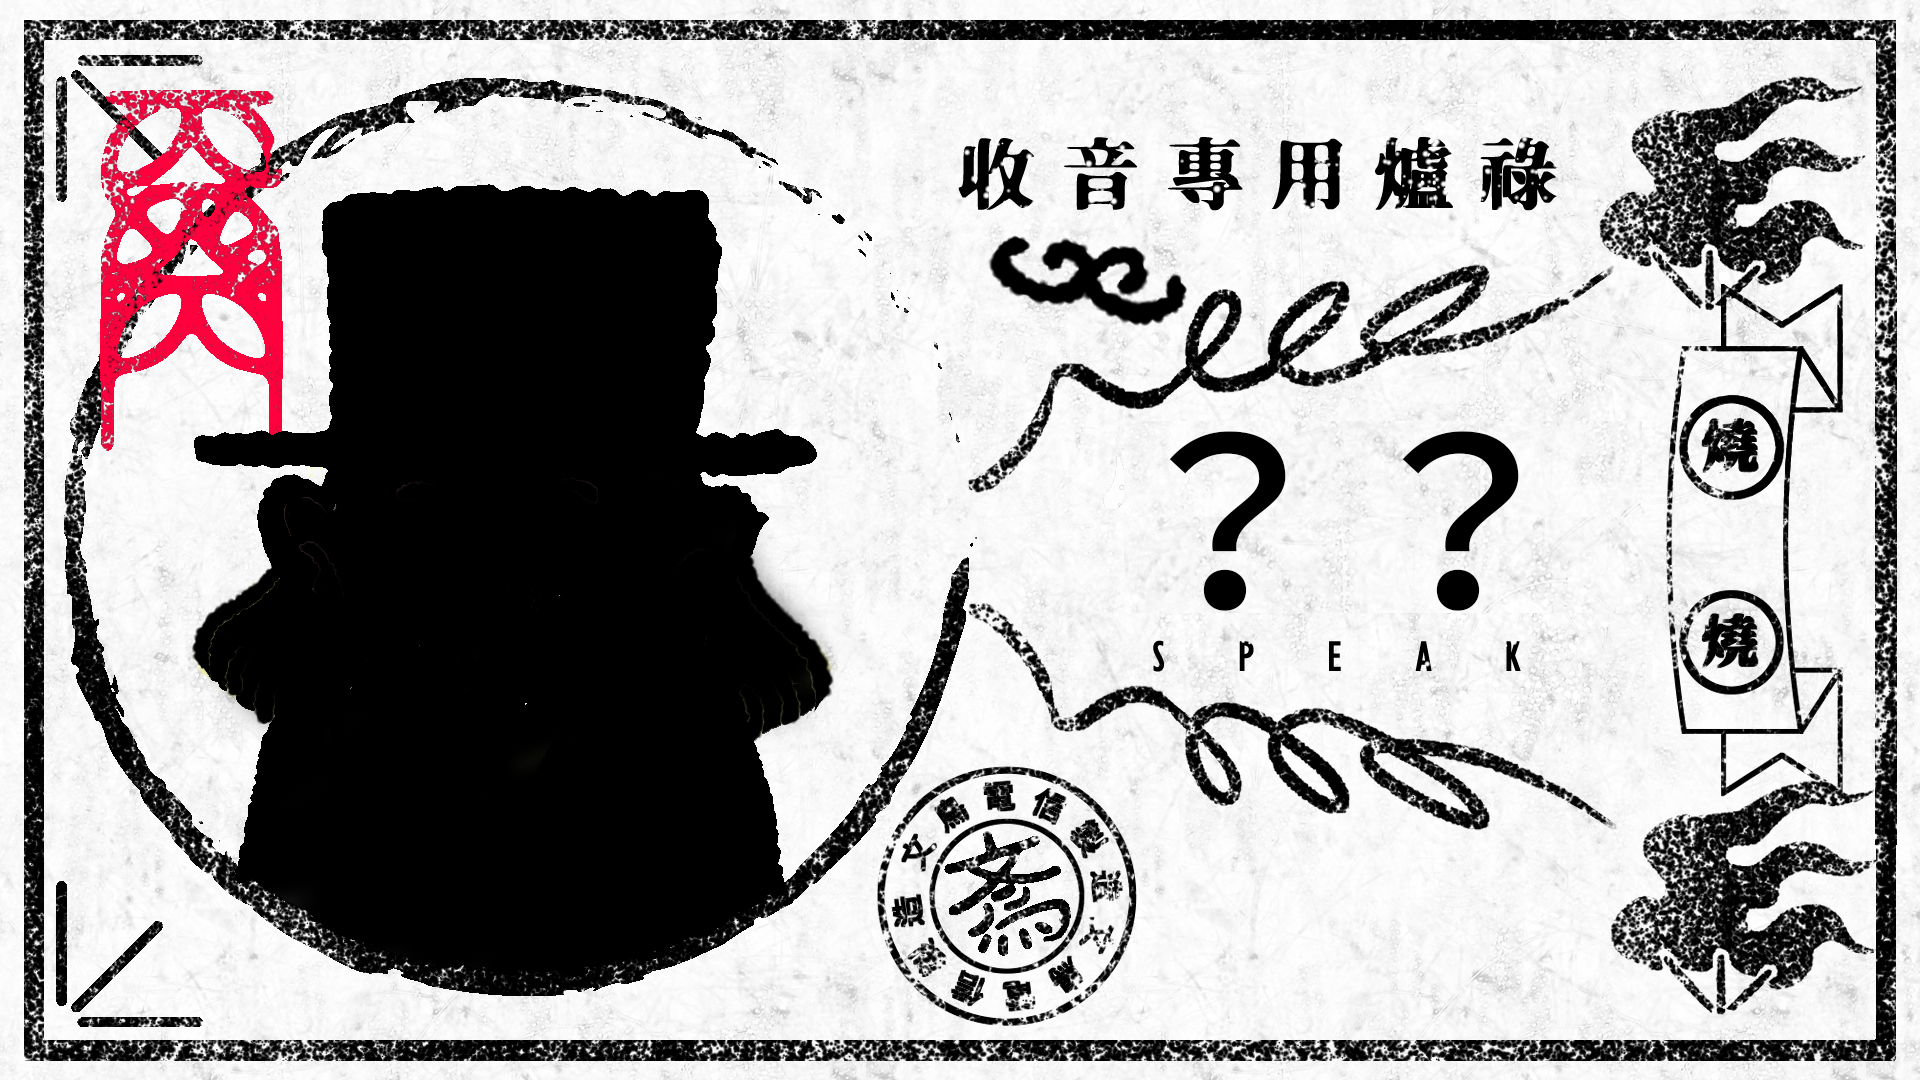
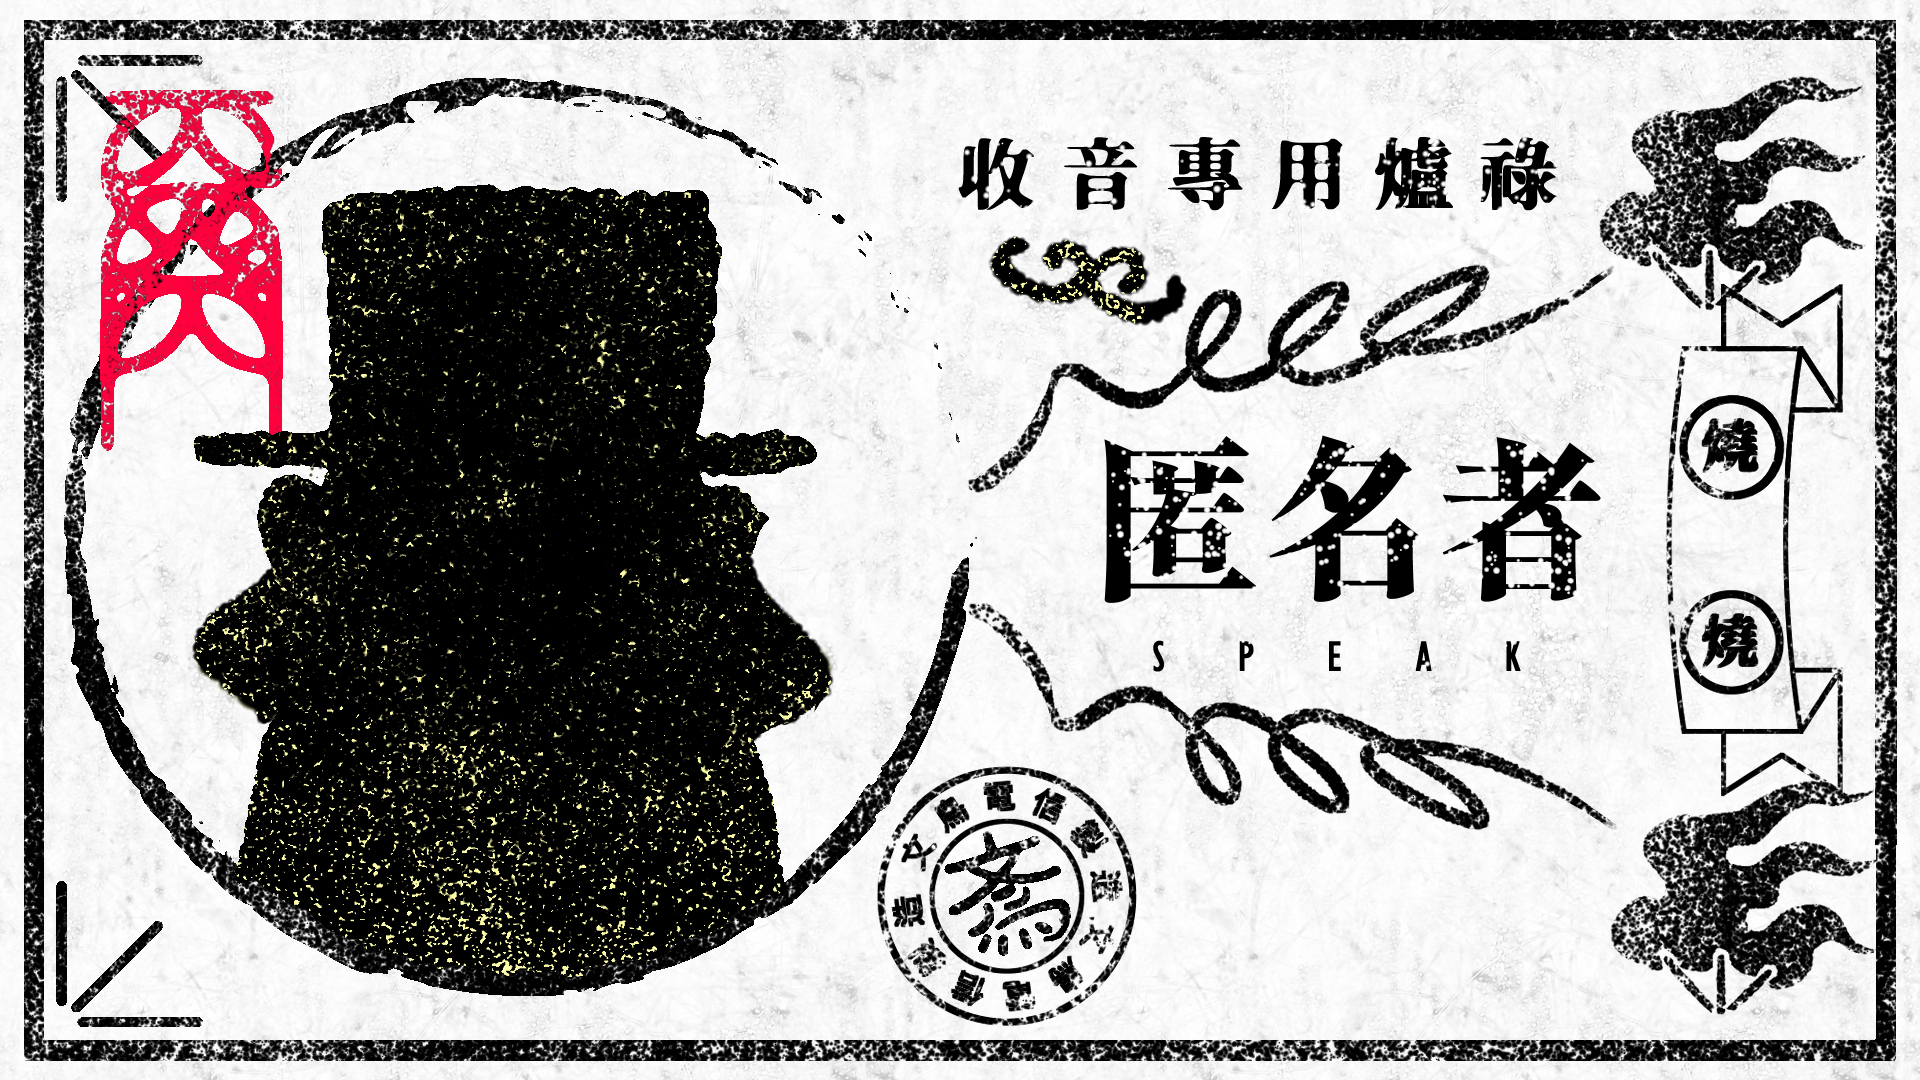
改版v7

diff --git a/tainanfist/testdemov4.html b/tainanfist/testdemov4.html
@@ -298,7 +298,7 @@ body.bg4 {
   background-repeat: no-repeat;
 }
 body.bg5 {
-  background-image: url("https://lh3.googleusercontent.com/d/14fzcSHPJpA57fDKVgKTx-DxHXiJ3O_ri");
+  background-image: url("https://lh3.googleusercontent.com/d/1Oa1DKwPHUNVPFZ6qIbismByYcShU3qht");
   display: flex;
   min-height: 100vh;
   background-size: auto 100%;
@@ -306,6 +306,14 @@ body.bg5 {
   background-repeat: no-repeat;
 }
 body.bg6 {
+  background-image: url("https://lh3.googleusercontent.com/d/14fzcSHPJpA57fDKVgKTx-DxHXiJ3O_ri");
+  display: flex;
+  min-height: 100vh;
+  background-size: auto 100%;
+  background-color: #fdfcfa;
+  background-repeat: no-repeat;
+}
+body.bg7 {
   background-image: url("https://lh3.googleusercontent.com/d/1g0_CSXdOcae3e0bDVZCtaO6Gvfu-vB4X");
   display: flex;
   min-height: 100vh;
@@ -4365,14 +4373,10 @@ Normal text. Normal text. Normal text. Normal text. Normal text. //emphasised te
   └&lt;&lt;link &#39;【第四章關卡1】&#39;&gt;&gt;&lt;&lt;goto &#39;第四章關卡1&#39;&gt;&gt;&lt;&lt;script&gt;&gt;Dialog.close();&lt;&lt;/script&gt;&gt;&lt;&lt;/link&gt;&gt;
   └&lt;&lt;link &#39;【第四章關卡2】&#39;&gt;&gt;&lt;&lt;goto &#39;第四章關卡2&#39;&gt;&gt;&lt;&lt;script&gt;&gt;Dialog.close();&lt;&lt;/script&gt;&gt;&lt;&lt;/link&gt;&gt;
 
-  &lt;&lt;link &#39;【片刻休息-枝仔冰城】&#39;&gt;&gt;&lt;&lt;goto &#39;片刻休息2&#39;&gt;&gt;&lt;&lt;/link&gt;&gt;
-  
   &lt;&lt;link &#39;【第五章】&#39;&gt;&gt;&lt;&lt;goto &#39;第五章0&#39;&gt;&gt;&lt;&lt;script&gt;&gt;Dialog.close();&lt;&lt;/script&gt;&gt;&lt;&lt;/link&gt;&gt;
   └&lt;&lt;link &#39;【第五章關卡1】&#39;&gt;&gt;&lt;&lt;goto &#39;第五章關卡1&#39;&gt;&gt;&lt;&lt;script&gt;&gt;Dialog.close();&lt;&lt;/script&gt;&gt;&lt;&lt;/link&gt;&gt;
   └&lt;&lt;link &#39;【第五章關卡2】&#39;&gt;&gt;&lt;&lt;goto &#39;第五章關卡2&#39;&gt;&gt;&lt;&lt;script&gt;&gt;Dialog.close();&lt;&lt;/script&gt;&gt;&lt;&lt;/link&gt;&gt;
 
-&lt;&lt;link &#39;【片刻休息-鴨母寮古厝】&#39;&gt;&gt;&lt;&lt;goto &#39;片刻休息3&#39;&gt;&gt;&lt;&lt;/link&gt;&gt;
-  
   &lt;&lt;link &#39;【後日談】&#39;&gt;&gt;&lt;&lt;goto &#39;第六章0&#39;&gt;&gt;&lt;&lt;script&gt;&gt;Dialog.close();&lt;&lt;/script&gt;&gt;&lt;&lt;/link&gt;&gt;
   └&lt;&lt;link &#39;【後日談關卡1】&#39;&gt;&gt;&lt;&lt;goto &#39;第六章關卡1&#39;&gt;&gt;&lt;&lt;script&gt;&gt;Dialog.close();&lt;&lt;/script&gt;&gt;&lt;&lt;/link&gt;&gt;
   └&lt;&lt;link &#39;【後日談關卡2】&#39;&gt;&gt;&lt;&lt;goto &#39;第六章關卡2&#39;&gt;&gt;&lt;&lt;script&gt;&gt;Dialog.close();&lt;&lt;/script&gt;&gt;&lt;&lt;/link&gt;&gt;
@@ -4565,7 +4569,7 @@ _contents
 &lt;&lt;/if&gt;&gt;</tw-passagedata><tw-passagedata pid="25" name="PassageHeader" tags="noreturn" position="100,525" size="100,100"></tw-passagedata><tw-passagedata pid="26" name="PassageDone" tags="noreturn" position="200,525" size="100,100"></tw-passagedata><tw-passagedata pid="27" name="PassageReady" tags="noreturn" position="300,525" size="100,100"></tw-passagedata><tw-passagedata pid="28" name="角色資訊" tags="noreturn stat-passage nobr center" position="200,100" size="100,100">&lt;div style=&#39;padding: 0 5%;&#39;&gt;
 &lt;div class=&quot;box&quot;&gt;
 &lt;h3&gt;神祕刀客&lt;/h3&gt;
-&lt;&lt;htmlimg &quot;神祕刀客.png&quot; &quot;80%&quot;&gt;&gt;
+&lt;&lt;htmlimg &quot;刀客.png&quot; &quot;80%&quot;&gt;&gt;
 &lt;hr  style=&quot;border-color: #f5e3d3;&quot;&gt;
 &lt;i&gt;你追逐的目標，搗毀天地門的兇手。&lt;/i&gt;
 &lt;/div&gt;
@@ -5240,7 +5244,7 @@ _contents
 &lt;&lt;button &#39;輸入&#39;&gt;&gt;
 	&lt;&lt;set _inputtext to _inputtext.trim()&gt;&gt;
 	&lt;&lt;if _inputtext is &#39;座西朝東&#39; or _inputtext is &#39;坐西朝東&#39;&gt;&gt;
-		&lt;&lt;replace &#39;#supportercode-form&#39;&gt;&gt;擺放位置正確！&lt;br&gt;&lt;br&gt;&lt;&lt;button &#39;繼續&#39; &#39;第四章2&#39;&gt;&gt;&lt;&lt;/replace&gt;&gt;
+		&lt;&lt;replace &#39;#supportercode-form&#39;&gt;&gt;擺放位置正確！&lt;br&gt;&lt;br&gt;&lt;&lt;button &#39;繼續&#39; &#39;第四章2&#39;&gt;&gt;&lt;&lt;/button&gt;&gt;&lt;&lt;/replace&gt;&gt;
 	&lt;&lt;else&gt;&gt;
 			&lt;&lt;run Dialog.setup(&quot;輸入錯誤&quot;)&gt;&gt;
 			&lt;&lt;run Dialog.wiki(Story.get(&#39;第四章關卡1提示&#39;).processText())&gt;&gt;
@@ -5381,7 +5385,7 @@ _contents
 
 你繼續跟隨千歲的腳步，尋找其他的拳師。
 
-&lt;&lt;replace &#39;#storylink&#39;&gt;&gt;&lt;&lt;button &#39;繼續挑戰後日談&#39; &#39;第六章0&#39;&gt;&gt;&lt;&lt;set $restchoice to &#39;3&#39;&gt;&gt;&lt;&lt;/button&gt;&gt;&lt;&lt;/replace&gt;&gt;
+&lt;&lt;replace &#39;#storylink&#39;&gt;&gt;&lt;&lt;button &#39;繼續挑戰後日談&#39; &#39;第六章0&#39;&gt;&gt;&lt;&lt;/button&gt;&gt;&lt;&lt;/replace&gt;&gt;
 &lt;&lt;/if&gt;&gt;\</tw-passagedata><tw-passagedata pid="79" name="圖片彙整" tags="noreturn" position="0,1400" size="100,100">&lt;h2&gt;遊戲LOGO&lt;/h2&gt;
 &lt;&lt;include &quot;遊戲LOGO&quot;&gt;&gt;
 ----
@@ -5795,13 +5799,13 @@ Llogo.png</tw-passagedata><tw-passagedata pid="80" name="第六章1" tags="autos
 排列正確，成功啟動機關！&lt;br&gt;&lt;br&gt;&lt;&lt;link &#39;繼續&gt;&gt;&#39; &#39;第六章3&#39;&gt;&gt;&lt;&lt;run Dialog.close()&gt;&gt;&lt;&lt;/link&gt;&gt;
 &lt;&lt;else&gt;&gt;
 排列錯誤，再試一次？(正確答案是：宋朝、唐朝、宋朝、漢朝、唐朝、春秋、晉朝、晉朝、晉朝、明朝、唐朝、宋朝)
-&lt;&lt;/if&gt;&gt;</tw-passagedata><tw-passagedata pid="110" name="第五章關卡1-2" tags="autosave center" position="4100,500" size="100,100">&lt;h2 class=&quot;fancy&quot;&gt;遊戲關卡&lt;/h2&gt;&lt;h1&gt;求藥籤第一步&lt;/h1&gt;
+&lt;&lt;/if&gt;&gt;</tw-passagedata><tw-passagedata pid="110" name="第五章關卡1-2" tags="autosave center tvscene" position="4100,500" size="100,100">&lt;h2 class=&quot;fancy&quot;&gt;遊戲關卡&lt;/h2&gt;&lt;h1&gt;求藥籤第一步&lt;/h1&gt;
 &lt;div id=&#39;tv&#39;&gt;
 &lt;table&gt;
 &lt;tr&gt;
-&lt;td&gt;&lt;&lt;htmlimg &quot;香.png&quot; &quot;80%&quot;&gt;&gt;&lt;/td&gt;
-&lt;td&gt;&lt;&lt;htmlimg &quot;金紙.png&quot; &quot;80%&quot;&gt;&gt;&lt;/td&gt;
-&lt;td&gt;&lt;&lt;htmlimg &quot;水果.png&quot; &quot;80%&quot;&gt;&gt;&lt;/td&gt;
+&lt;td&gt;&lt;&lt;htmlimg &quot;香.png&quot; &quot;100%&quot;&gt;&gt;&lt;/td&gt;
+&lt;td&gt;&lt;&lt;htmlimg &quot;金紙.png&quot; &quot;100%&quot;&gt;&gt;&lt;/td&gt;
+&lt;td&gt;&lt;&lt;htmlimg &quot;水果.png&quot; &quot;100%&quot;&gt;&gt;&lt;/td&gt;
 &lt;/tr&gt;
 &lt;tr&gt;
 &lt;td&gt;&lt;&lt;checkboxPlus &quot;$check1&quot; &quot;&quot;&gt;&gt;&lt;/td&gt;
@@ -6157,6 +6161,8 @@ Llogo.png</tw-passagedata><tw-passagedata pid="80" name="第六章1" tags="autos
 &lt;ol id=&#39;story&#39;&gt;
 &lt;li&gt;遊戲程式透過網頁瀏覽器來運作，建議使用@@color:green;chrome瀏覽器@@。遊玩過程中須保持網路連線，@@color:red;請勿點擊網頁瀏覽器上一頁@@，避免跳出遊戲程式。&lt;/li&gt;
 &lt;li&gt;遊戲解謎過程會需要搭配@@color:green;遊戲地圖@@使用，根據遊戲程式中的提示號碼，找到地圖上對應文鳥情報局編號之內容。&lt;br&gt;&lt;img src=&quot;media/img/編號說明.png&quot; height=&quot;50px&quot;&gt;&lt;/li&gt;
+&lt;li&gt;遊戲中看到如下的連結與按鈕，可點擊進行互動操作。
+&lt;&lt;link &#39;連結&#39;&gt;&gt;&lt;&lt;/link&gt;&gt;　　&lt;span style=&quot;display: inline-block; width: 150px&quot;&gt;&lt;&lt;button &#39;按鈕&#39;&gt;&gt;&lt;&lt;/button&gt;&gt;&lt;/span&gt;&lt;/li&gt;
 &lt;li&gt;使用手機執行遊戲程式時，點擊上側 &lt;img style= &quot;display: inline;&quot; src=&quot;media/img/close.png&quot; height=&quot;20px&quot;&gt; 開啟@@color:green;遊戲功能列@@，功能列中各個按鈕的功能如下。&lt;br&gt;&lt;img src=&quot;media/img/功能列表.png&quot; height=&quot;150px&quot;&gt;&lt;/li&gt;
 &lt;li&gt;點擊功能列中 &lt;img style= &quot;display: inline;&quot; src=&quot;media/img/setting.png&quot; height=&quot;20px&quot;&gt; 可以進行文字字體、文字大小與開關通知的設定。&lt;/li&gt;
 &lt;li&gt;功能列中的 &lt;img style= &quot;display: inline;&quot; src=&quot;media/img/save.png&quot; height=&quot;20px&quot;&gt; 可以儲存遊戲進度； &lt;img style= &quot;display: inline;&quot; src=&quot;media/img/restart.png&quot; height=&quot;20px&quot;&gt; 則可以清除所有遊戲資料，從頭開始遊戲。&lt;/li&gt;
@@ -6433,19 +6439,14 @@ A為&quot;一(1)&quot;、B為&quot;三(3)&quot;、C為&quot;祀(4)&quot;、D為&
 
 對照@@color:green;廟中立柱的實際顏色@@，找出被汙染的立柱復原顏色。
 
-&lt;&lt;button &#39;復原立柱&#39; &#39;第四章關卡2-1&#39;&gt;&gt;&lt;&lt;/button&gt;&gt;</tw-passagedata><tw-passagedata pid="164" name="第四章關卡2-1" tags="autosave center" position="3700,800" size="100,100">&lt;&lt;if $colorchoice is 5&gt;&gt;
-&lt;&lt;goto &#39;第四章關卡2-1判斷&#39;&gt;&gt;
-&lt;&lt;else&gt;&gt;
-&lt;h1&gt;第 $colorchoice 根立柱&lt;/h1&gt;
+&lt;&lt;button &#39;復原立柱&#39; &#39;第四章關卡2-1&#39;&gt;&gt;&lt;&lt;/button&gt;&gt;</tw-passagedata><tw-passagedata pid="164" name="第四章關卡2-1" tags="autosave center" position="3700,800" size="100,100">&lt;&lt;if $colorchoice is 5&gt;&gt;&lt;&lt;goto &#39;第四章關卡2-1判斷&#39;&gt;&gt;&lt;&lt;else&gt;&gt;&lt;h1&gt;第 $colorchoice 根立柱&lt;/h1&gt;
 &lt;&lt;set $random to random(1,5)&gt;&gt;&lt;&lt;= &quot;&lt;img src=&#39;&quot; + setup.ImagePath + &quot;立柱&quot; + $random +&quot;.png&#39; width=&#39;50%&#39;&gt;&quot;&gt;&gt;
 
 &lt;&lt;button &#39;保留顏色&#39; &#39;第四章關卡2-1&#39;&gt;&gt;&lt;&lt;if $random is 4&gt;&gt;&lt;&lt;set $rightcolor += 1&gt;&gt;&lt;&lt;/if&gt;&gt;&lt;&lt;set $colorchoice += 1&gt;&gt;&lt;&lt;/button&gt;&gt;
 
 &lt;&lt;button &#39;刮除汙染&#39; &#39;第四章關卡2-1&#39;&gt;&gt;&lt;&lt;if $random isnot 4&gt;&gt;&lt;&lt;set $rightcolor += 1&gt;&gt;&lt;&lt;/if&gt;&gt;&lt;&lt;set $colorchoice += 1&gt;&gt;&lt;&lt;/button&gt;&gt;
-&lt;&lt;/if&gt;&gt;</tw-passagedata><tw-passagedata pid="165" name="第四章關卡2-1判斷" tags="center" position="3800,800" size="100,100">&lt;&lt;if $rightcolor is 4&gt;&gt;
-復原成功，解開封印！&lt;br&gt;&lt;br&gt;&lt;&lt;button &#39;繼續&#39; &#39;第四章3&#39;&gt;&gt;&lt;&lt;/button&gt;&gt;
-&lt;&lt;else&gt;&gt;
-復原錯誤，再試一次？
+&lt;&lt;/if&gt;&gt;</tw-passagedata><tw-passagedata pid="165" name="第四章關卡2-1判斷" tags="center" position="3800,800" size="100,100">&lt;&lt;if $rightcolor is 4&gt;&gt;復原成功，解開封印！&lt;br&gt;&lt;br&gt;&lt;&lt;button &#39;繼續&#39; &#39;第四章3&#39;&gt;&gt;&lt;&lt;/button&gt;&gt;
+&lt;&lt;else&gt;&gt;復原錯誤，再試一次？
 
 &lt;&lt;linkappend &#39;觀看提示&#39;&gt;&gt;
 從實際觀察可知，廟中立柱的顏色是黑色，非黑色的立柱就是被汙染的立柱！
